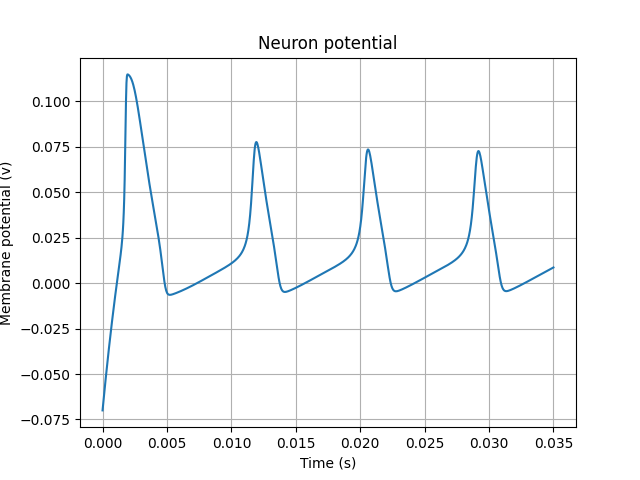
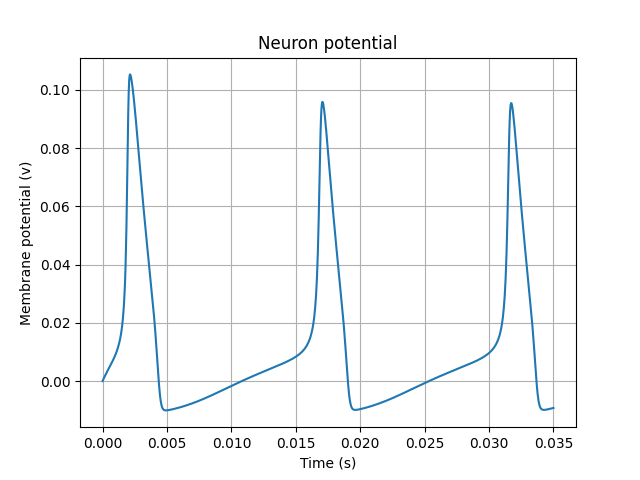
only neuron potential graph confirmed to be correct

diff --git a/HH model.py b/HH model.py
@@ -27,13 +27,15 @@ class HodgkinHuxley():
         self.g_k  = 36.                       
         self.g_l  = 0.3                   
         self.c_m  = 1.
-        self.v   = -70.
+        self.v   = 0.
         self.vna  = 115.                        
         self.vk   = -12.                        
-        self.vl   = 10.613                         
+        self.vl   = 10.613   
+        self.vrest = 0.
+        self.vthresh = -55.                      
         self.tmin = 0.
         self.tmax = 35.  
-        self.i_inj = 50.
+        self.i_inj = 10.
         
         # self.dt = 0.001
         self.t  = np.linspace(self.tmin, self.tmax, 1000) # Total duration of simulation [ms]
@@ -63,7 +65,6 @@ class HodgkinHuxley():
             return 1.5/(-1 + np.exp(3./2.))
         else:
             return nom / denom
-        
     def beta_m(self,v):
         return 4. * np.exp(- v/ 18.)
 
@@ -92,23 +93,22 @@ class HodgkinHuxley():
     #         return self.i_inj
     #     return 0.0
 
-    # def frequency(self,v):
-    #     rec_spikes = 0               # record spike times
-    #     v_reset = 0
-    #     v_thresh = 0.6
-    #     self.firing_rate = []
-    #     iinj = np.linspace(0, 50., 1000)
-    #     for n in range(len(iinj)):
-    #         for it in range(0,len(self.t)-1):
-    #             if v[it] >= v_thresh:
-    #                 rec_spikes +=1
-    #                 v[it] = v_reset
-    #     self.firing_rate.append(rec_spikes/self.tmax)
+    def frequency(self,v):
+        rec_spikes = 0               # record spike times
+        self.firing_rate = []
+        self.iinj = np.linspace(0, 10., 1000)
+
+        for n in range(len(self.iinj)):
+            for it in range(0,len(self.t)-1):
+
+                if v[it] >= self.vthresh:
+                    rec_spikes +=1
+                    v[it+1] = self.vrest
+            self.firing_rate.append(rec_spikes/self.tmax*milli)
 
 
     def derivatives(self,y,t):
         der = np.zeros(4)
-        c_m = self.c_m
         
         v= y[0]
         self.n = y[1]
@@ -124,7 +124,7 @@ class HodgkinHuxley():
         i_l = gL * (v- self.vl )
 
 
-        der[0] = (self.i_inj - i_na - i_k - i_l) / c_m   # dv/dt
+        der[0] = (self.i_inj - i_na - i_k - i_l) / self.c_m   # dv/dt
         der[1] = (self.alpha_n(v) * (1 - self.n)) - (self.beta_n(v) * self.n)    # dn/dt
         der[2] = (self.alpha_m(v) * (1 - self.m)) - (self.beta_m(v) * self.m)    # dm/dt
         der[3] = (self.alpha_h(v) * (1 - self.h)) - (self.beta_h(v) * self.h)    # dh/dt
@@ -133,16 +133,13 @@ class HodgkinHuxley():
 
     def Main(self):
         self.default_pars()
-
         v= self.v
         t = self.t
         y = np.array([v, self.n_inf(v), self.m_inf(v), self.h_inf(v)], dtype= 'float64')
 
         sol = odeint(self.derivatives, y, t)    # Solve ODE
-        iinj = np.linspace(0, 50., 1000)
 
-        # self.frequency(sol[:,1])
-
+        self.frequency(sol[:,1])
 
         ax = plt.subplot()
         ax.plot(t*milli, sol[:, 0]*milli)
@@ -154,23 +151,34 @@ class HodgkinHuxley():
         plt.show()
 
         ax = plt.subplot()
-        ax.plot(t*milli, sol[:,1], 'r', label='n')
-        ax.plot(t*milli, sol[:,2], 'g', label='m')
-        ax.plot(t*milli, sol[:,3], 'b', label='h')
+        ax.plot(t*milli, sol[:,1], 'b', label='Potassium Channel')
+        ax.plot(t*milli, sol[:,2], 'g', label='Sodium (Opening)')
+        ax.plot(t*milli, sol[:,3], 'r', label='Sodium Channel (Closing)')
         ax.set_ylabel('Gating value')
         ax.set_xlabel('Time (s)')
         ax.set_title('Potassium and Sodium channels')
         plt.legend()
-        plt.savefig('Potassium and Sodium channels')
+        plt.savefig('Potassium and Sodium channels (time)')
         plt.show()
 
-        # ax = plt.subplot()
-        # ax.plot(iinj, self.firing_rate)
-        # ax.set_xlabel("Input Current(A)")
-        # ax.set_ylabel("Firing rate(spikes/s)")
-        # ax.set_title('f-I Curve')
-        # plt.savefig('f-I Curve')
-        # plt.show()
+        ax = plt.subplot()
+        ax.plot(sol[:, 0]*milli, sol[:,1], 'b', label='Potassium Channel')
+        ax.plot(sol[:, 0]*milli, sol[:,2], 'g', label='Sodium (Opening)')
+        ax.plot(sol[:, 0]*milli, sol[:,3], 'r', label='Sodium Channel (Closing)')
+        ax.set_ylabel('Gating value')
+        ax.set_xlabel('Voltage (V)')
+        ax.set_title('Potassium and Sodium channels')
+        plt.legend()
+        plt.savefig('Potassium and Sodium channels (voltage)')
+        plt.show()
+
+        ax = plt.subplot()
+        ax.plot(self.iinj, self.firing_rate)
+        ax.set_xlabel("Input Current(A)")
+        ax.set_ylabel("Firing rate(spikes/s)")
+        ax.set_title('f-I Curve')
+        plt.savefig('f-I Curve')
+        plt.show()
 
 if __name__ == '__main__':
     runner = HodgkinHuxley()
